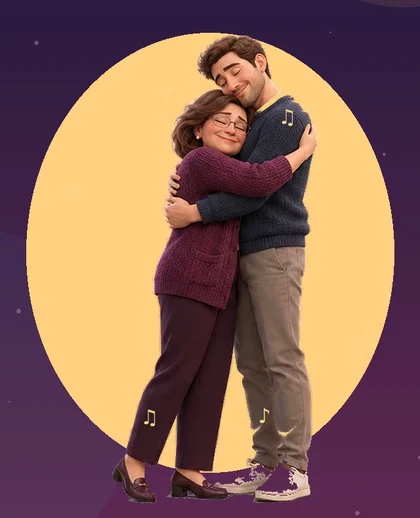
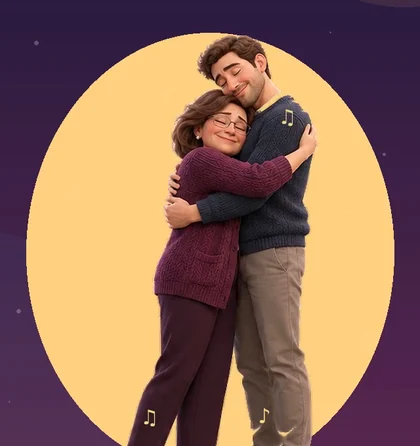
Kadr nuty: nogi znikaja w owalu, bez widocznych butow

Changed region(s): [[0.031, 0.0583, 0.9595, 1.0], [0.8357, 0.991, 0.8667, 1.0]]

diff --git a/index.html b/index.html
@@ -57,16 +57,16 @@ p{margin:0}
 
 /* pierwszy ekran */
 .hero{position:relative;min-height:calc(100svh - var(--hh));display:flex;align-items:center;overflow:hidden;background:#fff}
-.hero .wrap{display:grid;grid-template-columns:minmax(0,1fr) minmax(0,1fr);align-items:center;gap:40px;padding:32px 0}
+.hero .wrap{display:grid;grid-template-columns:minmax(0,1fr) minmax(0,1.15fr);align-items:center;gap:40px;padding:32px 0}
 .hero-txt{position:relative;z-index:2;max-width:590px}
 .hero h1{font-size:clamp(40px,4.6vw,70px);line-height:1.04;letter-spacing:-.025em}
 .hero .lead{margin-top:24px;font-size:clamp(18px,1.35vw,21px);color:var(--muted);max-width:520px}
 .hero .cta{margin-top:34px;display:flex;flex-wrap:wrap;align-items:center;gap:14px 22px}
 .hero .info{font-size:16px;color:var(--muted);line-height:1.4}
 .hero .info b{color:var(--navy);font-weight:700}
-.scena{position:relative;justify-self:center;height:min(calc(100svh - var(--hh) - 90px),790px);aspect-ratio:640/790;max-width:100%}
-.scena img{width:100%;height:100%;object-fit:cover;clip-path:ellipse(49.6% 49.6% at 50% 50%);position:relative;z-index:2}
-.scena .laska{position:absolute;z-index:3;left:calc(100% - 9px);bottom:50%;height:52%;width:24%;overflow:visible;pointer-events:none}
+.scena{position:relative;justify-self:start;margin-left:4%;height:min(calc(100svh - var(--hh) - 90px),680px,41vw);aspect-ratio:640/680;max-width:100%}
+.scena img{width:100%;height:100%;object-fit:cover;clip-path:ellipse(49.6% 57.6% at 50% 58.1%);position:relative;z-index:2;-webkit-mask-image:linear-gradient(to bottom,#000 76%,rgba(0,0,0,.5) 89%,transparent 99%);mask-image:linear-gradient(to bottom,#000 76%,rgba(0,0,0,.5) 89%,transparent 99%)}
+.scena .laska{position:absolute;z-index:3;left:calc(100% - 9px);bottom:41.9%;height:60%;width:20%;overflow:visible;pointer-events:none}
 .pieciolinia{position:absolute;left:0;right:0;top:50%;transform:translateY(-50%);height:var(--ph,200px);pointer-events:none;z-index:1}
 .pieciolinia i{position:absolute;left:0;right:0;height:1.5px;background:rgba(16,34,83,.11)}
 .pieciolinia i:nth-child(1){top:0}.pieciolinia i:nth-child(2){top:25%}.pieciolinia i:nth-child(3){top:50%}.pieciolinia i:nth-child(4){top:75%}.pieciolinia i:nth-child(5){top:100%}
@@ -252,15 +252,15 @@ details p{padding:0 0 24px;color:var(--muted);max-width:640px}
 
   .hero{align-items:stretch}
   .hero .wrap{display:flex;flex-direction:column;align-items:stretch;gap:0;padding:14px 0 22px;min-height:calc(100svh - var(--hh))}
-  .scena{order:-1;flex:1 1 0;min-height:170px;max-height:320px;height:auto;width:auto;aspect-ratio:auto;align-self:center;display:flex;justify-content:center}
-  .scena img{height:100%;width:auto;aspect-ratio:640/790}
+  .scena{order:-1;margin-left:0;flex:1 1 0;min-height:160px;max-height:280px;height:auto;width:auto;aspect-ratio:auto;align-self:center;display:flex;justify-content:center}
+  .scena img{height:100%;width:auto;aspect-ratio:640/680}
   .scena .laska{left:calc(50% + var(--sw,120px) - 7px)}
   .hero .pieciolinia{left:0;top:calc(14px + var(--sh,150px));--ph:min(18svh,150px)}
   .hero-txt{max-width:none;margin-top:clamp(14px,2.6svh,26px)}
   .hero h1{font-size:clamp(29px,8.2vw,40px);line-height:1.08}
   .hero .lead{margin-top:clamp(10px,1.8svh,16px);font-size:clamp(15.5px,4.1vw,17px);line-height:1.5}
   .hero .cta{margin-top:clamp(24px,3.6svh,30px);gap:12px}
-  .scena .laska{height:44%;width:30%}
+  .scena .laska{height:50%;width:30%}
   .hero .btn{width:100%;min-height:52px}
   .hero .info{width:100%;text-align:center;font-size:14.5px}
 
@@ -294,7 +294,7 @@ details p{padding:0 0 24px;color:var(--muted);max-width:640px}
   .lb .wstecz,.lb .dalej{top:auto;bottom:18px;transform:none}
 }
 @media (max-width:899px) and (min-resolution:2.8dppx){
-  .scena{max-height:290px}
+  .scena{max-height:240px}
   .wideo{width:min(100%,246px)}
 }
 @media (max-width:899px) and (max-height:700px){
@@ -338,7 +338,7 @@ details p{padding:0 0 24px;color:var(--muted);max-width:640px}
       </div>
     </div>
     <div class="scena" id="scena">
-      <img src="img/nuta-640.webp" srcset="img/nuta-420.webp 420w, img/nuta-640.webp 640w" sizes="(max-width: 899px) 300px, 640px" width="640" height="790" alt="Syn przytula mamę po wysłuchaniu piosenki - kadr z filmu Podaruj Nutę" fetchpriority="high">
+      <img src="img/nuta-640.webp" srcset="img/nuta-420.webp 420w, img/nuta-640.webp 640w" sizes="(max-width: 899px) 300px, 640px" width="640" height="680" alt="Syn przytula mamę po wysłuchaniu piosenki - kadr z filmu Podaruj Nutę" fetchpriority="high">
       <svg class="laska" viewBox="0 0 100 200" preserveAspectRatio="none" aria-hidden="true"><path d="M4 200V4" stroke="#102253" stroke-width="7" vector-effect="non-scaling-stroke" fill="none" stroke-linecap="round"/><path d="M4 4c6 22 22 34 40 46 20 13 26 36 16 58" stroke="#102253" stroke-width="7" vector-effect="non-scaling-stroke" fill="none" stroke-linecap="round"/></svg>
     </div>
   </div>
